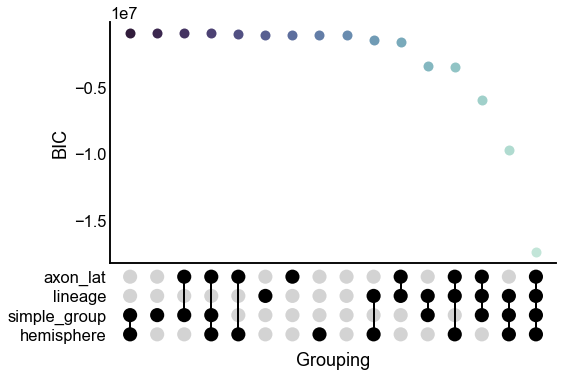
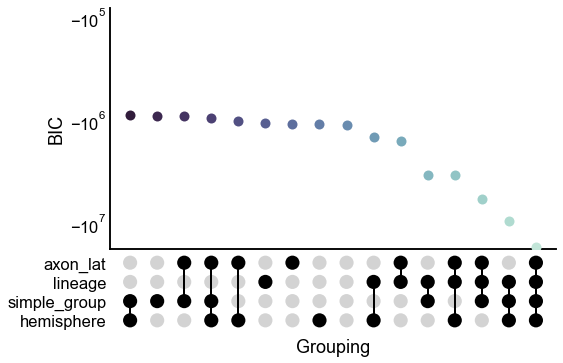
deploy: 57e672d20fbf3d39e48d55f0de262d6b388ae376

diff --git a/searchindex.js b/searchindex.js
@@ -1,1 +1,1 @@
-Search.setIndex({docnames:["a_priori_sbm","flow","flow_rank","flow_rank_hypothesis","introduction","landing","look","outline","simple_statistics","what_is_flow_rank"],envversion:{"sphinx.domains.c":2,"sphinx.domains.changeset":1,"sphinx.domains.citation":1,"sphinx.domains.cpp":3,"sphinx.domains.index":1,"sphinx.domains.javascript":2,"sphinx.domains.math":2,"sphinx.domains.python":2,"sphinx.domains.rst":2,"sphinx.domains.std":2,"sphinx.ext.intersphinx":1,sphinx:56},filenames:["a_priori_sbm.ipynb","flow.ipynb","flow_rank.ipynb","flow_rank_hypothesis.ipynb","introduction.md","landing.md","look.ipynb","outline.md","simple_statistics.ipynb","what_is_flow_rank.ipynb"],objects:{},objnames:{},objtypes:{},terms:{"01a5ef24ad6a":0,"038161366786986":1,"0381613667869867":2,"03it":2,"08333698647":2,"0x7fbffe1b3cd0":2,"0x7fbffec456a0":2,"100":[0,2,3,9],"106551":8,"10it":2,"1144380799117166":2,"114438079911836":1,"12it":2,"13s":3,"1482308":0,"14s":3,"17it":2,"17s":3,"18it":9,"19s":3,"1_1":[3,9],"200":[0,3,8,9],"20it":9,"22it":[2,9],"26s":3,"29401":2,"300":8,"3079":8,"338131":8,"34908":2,"35595505854":2,"36366":2,"40627":2,"40it":9,"42it":2,"43s":3,"4640518828635884":1,"4640518828635893":2,"500":8,"55it":9,"56it":9,"577596313386":2,"57it":9,"58it":[2,9],"62it":9,"64it":9,"6df5acaac1e9":8,"70it":9,"72it":2,"74it":2,"75it":9,"76it":2,"77it":[2,9],"78it":9,"81it":2,"837177843715216":1,"8371778437153456":2,"84it":2,"85it":9,"87it":2,"8888":[3,9],"97it":2,"98293932192":2,"class":7,"default":8,"function":[3,9],"import":[0,1,2,3,8,9],"int":[3,8,9],"new":0,"null":[2,3,9],"return":[0,1,2,3,9],"true":[0,1,2,3,9],"try":[0,7],"var":[1,2],And:7,For:[3,7,9],One:0,The:[3,5,9],Using:[3,9],__file__:0,__init__:[1,2,3,9],_group:0,_group_id:0,_n_paramet:0,_sr_rank:[1,2],_sr_score:[1,2],a1_tild:[3,9],a2_tild:[3,9],a_priori_sbm:0,a_sourc:2,a_target:2,abl:7,about:[0,3,7,9],abov:[0,3,7,9],across:[1,2],actual:7,adj:[0,1,2,3,8,9],adj_lcc:[1,2],adjac:[0,2,3,7,9],adjplot:[0,1,2,3,8,9],affect:[3,9],affin:7,aggreg:0,aim:0,align:[3,9],all:[0,1,2,7],all_group_kei:0,alon:0,alpha:[1,2,8],also:[0,3,9],anoth:7,anyth:7,anywher:7,append:[0,2,3,9],append_ax:[0,8],appli:0,arang:0,argsort:[1,2,3,9],arrai:0,ascend:0,assert:[0,1,2],associ:0,assort:7,assum:7,assumpt:0,attribut:7,awar:[3,9],axes_divid:2,axes_grid1:[0,2,8],axesdivid:2,axessubplot:2,axi:[0,1,2,8],axon:0,axon_lat:0,axs:[1,2,3,9],axvlin:2,balanc:0,bar:7,barplot_text:8,base:[3,9],basenam:0,bayesian:0,behavior:8,behind:[3,9],being:[3,9],below:0,best:7,beta1:[3,9],beta2:[3,9],beta:[1,2,3,9],between:[3,9],bilater:[0,7],bilateral_axon:0,bin:[1,2,3,8,9],binar:[0,2],biolog:0,black:[0,1,2,3,8,9],blob:0,block:[0,7],blockmodel:7,book:5,boostrap:[3,9],bootstrap:[3,9],bootstrap_sampl:[3,9],bootstrap_two_sample_test:[3,9],bootstrapped_beta:2,border:5,both:[0,3,9],bottom:[0,1,2],bpedigo:[1,2,3,9],brain:7,bunch:[3,9],calcul:[3,7,9],calculate_p_triu:2,calculate_test_statist:[3,9],call:[3,9],cambridg:7,came:[3,9],can:[3,7,9],cannot:0,care:[3,9],carei:7,cascad:7,categori:[0,7],cbar:[1,2,3,9],cell:7,center:[0,2],cep:7,chain:[0,7],chang:[3,9],chdir:3,chi:7,chosen:[3,9],class_color_dict:[1,2,8],cluster:7,col:2,col_graph:[1,2],col_ind:2,color:[0,1,2,3,7,8,9],color_palett:[3,9],column:0,colw:0,com:0,combin:0,common_norm:[1,2],compar:[0,3,7,9],comparison:7,complet:[3,7,9],complex:7,comput:[3,9],concaten:[3,9],connect:[0,7],connectom:[0,5,7],conserv:[3,9],consid:0,constant:[1,2,3,9],constraint:7,construct_spring_rank_p:[3,9],contra:[0,7],contralater:[0,7],contralateral_axon:0,copi:[1,2,8],correct:2,correl:[3,7,9],could:[0,7],count_nonzero:[3,9],covari:7,creat:0,criterion:0,cross:0,cubehelix_palett:0,cumul:[3,9],current:0,cwd:3,darkr:[2,3,9],data:[1,2,3,7,8,9],datafram:[0,2,3,9],ddcsbm:7,decid:7,deep:[3,9],def:[0,1,2,3,9],default_rng:[3,9],defin:[3,9],degre:[3,7,8,9],degree_in:2,degree_out:2,demonstr:7,dendrogram:7,densiti:[1,2,3,8,9],desat:[3,9],desc:[2,3,9],describ:[0,3,7,9],descrip:7,descript:7,dict:[0,1,2,3,8,9],differ:[0,3,7,9],dimens:0,direct:[0,2,3,7,9],directed:7,distanc:[3,9],distplot_kw:8,distribut:7,divid:[0,8],doe:[3,7,9],don:[3,7,9],done:1,dont:[2,7],down:[3,9],drawn:5,drosophila:5,dtype:[0,3,9],e6f66883e980332452041cd1a6ba986d6d8d2ae5:0,each:[3,7,9],easier:7,edg:[0,2,3,7,8,9],edgecolor:[1,2],effect:[3,9],either:0,element:[0,1,2,3,9],element_s:0,elif:[0,1,2],els:[0,1,2,8],embed:7,energi:[2,3,9],enumer:[1,2],env:[1,2,3,9],epsilon:[3,9],eric:7,essenti:0,estim:[0,3,7,9],estimate_spring_rank_model:[3,9],estimate_spring_rank_p:[1,2,3,9],etc:[0,7],evalu:7,even:7,ever:7,exactli:[3,9],examin:[3,7,9],exampl:[0,3,7,9],except:0,exist:0,exp:[1,2,3,9],expand:7,expand_margin:[3,9],experi:[3,9],explain:[0,3,9],extra:[3,9],facecolor:[0,1,2],fals:[0,1,2,3,8,9],famili:7,feedback:[3,9],feedforward:[3,7,9],few:[5,7],fig:[0,1,2,3,8,9],figsiz:[0,1,2,3,8,9],figur:[8,9],filenam:0,find:[3,9],first:7,fit:7,fix:0,flatnonzero:0,flow:7,flow_rank:2,flow_rank_hypothesi:3,foldernam:[0,2,3,9],follow:7,fontsiz:[2,8],form:0,frame:7,free:7,from:[0,1,2,7,8],from_iter:0,futur:8,gaa:[1,2],gad:[1,2],gda:[1,2],gdd:[1,2],gener:[0,5,7],generaliz:7,geomspac:8,get:[0,1,2,3,9],get_inverse_temperatur:[1,2,3,9],get_lcc:[1,2],get_legend:2,get_mid_map:8,get_rank:[1,2,3,9],getcwd:3,giskard:[3,9],github:0,given:[0,3,9],goal:[3,9],goe:7,good:[0,7],grab:0,graph:[1,2,3,7,8,9],graph_typ:[0,1,2],graph_type_nam:[1,2],graph_type_sourc:2,graph_type_target:2,graspolog:[0,1,2,7],grei:[1,2],gridmap:8,ground_state_energi:2,group:[0,3,9],group_kei:0,group_key1:0,group_key2:0,group_map:0,group_repr:0,groupbi:[0,2],h_0:[3,9],h_a:[3,9],happen:[3,9],has:0,hat:[0,1,2],have:[0,7],height:[3,9],height_pad:0,help:[3,9],hemispher:[0,7],here:[0,1,2,3,7,9],hierarch:7,hierarchi:[7,8],high:0,histplot:[1,2,3,8,9],homophil:7,homotop:7,homotyp:7,hopefulli:7,horizont:0,host:5,how:[0,7],howev:0,hspace:8,http:0,hue:[0,1,2,3,9],hue_kei:[1,2],hypothes:7,idx:[0,2],ignore_empti:0,iloc:[1,2,3,9],imag:7,improv:7,in_degre:8,in_degree_unweight:8,in_degree_weight:8,includ:[3,7,9],increas:[3,9],ind:[1,2,8],independ:[3,9],index:[0,1,2,8],indic:0,infer:7,inform:[0,7],init:7,initi:7,inplac:0,input:[0,8],instal:[1,2,3,9],interest:7,interneuron:[0,7],intersect:0,ipsi:[0,7],ipsilater:[0,7],ipsilateral_axon:0,ipynb_path:0,ipyparam:0,ipython:[0,8],is_fully_connect:2,isin:2,iter:0,iterrow:2,itertool:0,itertupl:0,its:0,ix_:[1,2],jhu_cod:3,jitter:0,jnothman:0,joint:[1,2],jovo:7,jupyt:5,just:[0,1,2,3,7,9],justifi:7,kde:8,keep:8,keep_ind:[1,2],kei:0,kind:[3,7,9],know:[3,7,9],known:[0,7],kwarg:[0,2,3,9],l428:0,label:[0,3,7,9],larg:2,larval:5,layout:[5,7],lcc:[1,2],lcc_adj:[1,2],learn:7,least:[3,9],left:[0,2,7],legend:[0,1,2,3,9],leiden:7,len:[0,1,2,3,8,9],length:0,less:7,let:7,level:[0,3,9],lib:[1,2,3,9],lightgrei:0,lik:0,like:[0,3,7,9],line2d:2,line:2,line_data:0,lineag:0,linestyl:[2,3,9],linewidth:[0,1,2,8],linspac:8,list:0,load_adj_meta:1,load_adjac:0,load_data:[2,8],load_metagraph:8,load_networkx:0,load_node_meta:0,load_palett:0,loc:[0,1,2],log:[0,8],log_scal:8,logi:0,logx:0,look:[3,7,9],loop:0,loos:7,lot:7,low:0,maggot:[0,1,2,3,5,9],maggot_connectom:9,mai:[3,9],make:[0,3,7,9],make_axes_locat:[0,8],make_rank:[3,9],map:[0,8],margin:7,markdown:0,marker:8,mass:[3,9],match:[3,7,9],math:[3,9],matplotlib:[0,1,2,3,8,9],matplotlibdeprecationwarn:8,matrix:[0,3,9],matrixplot:8,max:[0,3,8,9],mayb:7,mean:[1,2,3,9],meaningfulli:7,measur:[3,9],median:8,median_degre:8,median_in_degre:8,median_out_degre:8,meta:[0,1,2,8],metagraph:8,method:7,metric:[3,9],might:[1,2],min:[0,8],miniconda3:[1,2,3,9],model:[2,3,7,9],more:[3,7,9],motor:7,mpl_toolkit:[0,2,8],multigraph:7,multinetwork:7,multipl:[3,9],multipli:[1,2,3,9],n_a_low:2,n_a_upp:2,n_bins_linear:8,n_bins_log:8,n_bootstrap:[3,9],n_cat:0,n_color:0,n_edg:8,n_graph:[1,2],n_node:8,n_param:0,n_per_group:[3,9],n_repeat:[3,9],n_synapse_pair:8,n_vert:0,name:[0,3,9],nan:[1,2],nan_polici:[1,2],natur:0,nblast:7,nbunch:8,necessari:7,need:0,neq:[3,9],nest:7,network:[0,2,5,7],networkx:0,neurobiolog:7,neuron:[0,5,7],never:7,nice:7,nlevel:0,node:[3,7,8,9],node_meta:0,nodelist:0,non:0,none:[0,1,2,3,8,9],nonidentifi:[3,9],nonpar:7,nonzero:[2,8],normal:[3,9],note:0,notebook:5,notebook_nam:0,notion:[0,3,7,9],now:[0,7],nspearman:8,null1:[3,9],null2:[3,9],number:[7,8],numpi:[0,1,2,3,8,9],nuniqu:0,observ:[0,2,3,9],observed_test_statist:[3,9],off:[1,2],okai:7,old:[2,8],omit:[1,2],one:[3,7,9],ones:[2,3,9],onli:0,onto:0,opposit:[3,9],option:2,origin:[2,3,9],other:[0,7],other_data:2,our:[0,7],out:[0,7,8],out_degre:8,out_degree_unweight:8,out_degree_weight:8,output:0,own:0,p_a_upp:2,p_perturb:[3,9],p_upper:2,p_valu:[3,9],p_value1:[3,9],p_value2:[3,9],p_value_distribut:[3,9],p_values_under_nul:[3,9],packag:[1,2,3,9],pad:[0,8],pair:[7,8],paired:7,pairwis:[1,2],palett:[0,1,2,3,9],panda:[0,2,3,8,9],paper:[3,5,7,9],paper_clustered_neuron:0,paramet:[3,7,9],parameter:7,parametricumap:[1,2,3,9],part:7,partit:0,path:0,pathwai:7,pearson:[3,8,9],pearsonr:[3,8,9],penalti:0,per:2,per_edg:2,perfectli:0,perturb:[3,9],phat1:[3,9],phat2:[3,9],phat:[3,9],pkg:[0,1,2,3,8,9],plan:0,plot:[1,2,3,7,8,9],plot_typ:[1,2,3,9],plot_upset_ind:0,plt:[0,1,2,3,8,9],png:9,point:[3,7,9],poisson:[2,3,9],posit:0,possibl:7,posteriori:7,powerset:0,predict:7,preprocess:8,pretti:7,print:[0,1,2,8],print_out:3,prior:7,priori:7,probabl:[0,3,7,9],procedur:[3,9],process:[3,9],purpos:0,pyplot:[0,1,2,3,8,9],python3:[1,2,3,9],python:7,question:[0,3,7,9],quit:7,random:[2,3,9],rang:[0,2,3,9],rank:[0,1,2,7],rankdata:[1,2],ranks1:[3,9],ranks2:[3,9],ranks_a1_tild:[3,9],ranks_a2_tild:[3,9],ravel:8,rcparam:8,rdpg:7,readcsv:8,realiz:[3,9],ref:0,rel:0,relat:7,remov:2,remove_axi:8,remove_loop:0,remove_shared_ax:8,remove_spin:8,render:5,repeat:[0,3,9],replic:7,repres:0,represent:0,result:[2,3,7,9],return_ind:[1,2],revamp:[1,2,3,9],revisit:7,rho:[1,2],right:[0,1,2,7,8],right_ax:8,rightarrow:[1,2],rng:[3,9],root_path:3,rot:0,rotat:[0,2],rough:7,row:[0,2,3,9],row_graph:[1,2],row_ind:2,rugplot:[3,9],run:[3,9],s_1:[3,9],s_2:[3,9],sai:7,sampl:[2,3,9],sampled_a:2,sampled_swapped_a:2,save:[0,9],savecsv:8,savefig:[0,2,3,8,9],sbm:[3,7,9],sbmestim:0,scale:[0,3,9],scatter:[0,8],scattermap:[1,2,3,9],scatterplot:[0,1,2,8],scipi:[1,2,3,8,9],score:0,script:0,seaborn:[0,1,2,3,8,9],see:0,seed:[3,7,9],select:7,semipar:7,sens:[3,9],sensori:7,seri:5,set:[0,1,2,3,8,9],set_axes_equ:8,set_bbox:[1,2],set_cwd:2,set_frame_on:0,set_index:0,set_styl:8,set_them:[0,1,2,3,8,9],set_tick:0,set_ticklabel:0,set_ticks_posit:0,set_vis:[0,2,8],set_warn:0,set_xlabel:[0,8],set_xlim:8,set_xscal:[0,8],set_ylabel:8,set_ylim:[0,8],set_yscal:[0,8],sever:0,sharei:8,sharex:[0,2,8],shift:[3,9],should:7,show:7,sigma:[3,9],signal:[3,7,9],signal_flow:8,sim:[3,7,9],similar:7,simpl:[0,7],simple_class:[1,2],simple_group:0,sinc:0,singl:3,single_data:2,single_group_kei:0,single_hu:2,site:[1,2,3,9],size:[0,1,2,3,8,9],skeleton:5,sns:[0,1,2,3,8,9],some:[0,3,7,9],someth:7,sort:[0,3,9],sort_ind:[1,2,3,9],sort_valu:0,sourc:2,space:[0,7],spearman:8,spearman_corr:[1,2],spearmanr:[1,2,8],spec:7,specif:[3,7,9],spine:2,spring:[3,7,9],spring_rank:[1,2],springrank:[1,2,3,9],sqrt:[3,9],squar:[7,8],sr_score:[1,2],src:[1,2,3,8,9],stacked_barplot:8,stackoverflow:0,start:[0,8],stashfig:[0,1,2,3,9],stat:[1,2,3,8,9],statist:[3,7,9],step:[1,2,3,9],stochast:0,str:0,string:0,stripplot:[0,3,9],stripplot_kw:0,structur:7,studi:5,stuff:7,sub:[3,9],sub_result:2,subplot:[0,1,2,3,8,9],subset:0,sum:[0,1,2,8],suptitl:[1,2],sure:[3,9],swap:2,swap_col_ind:2,swap_edg:2,swap_inds_ind:2,swap_row_ind:2,swapped_a:2,swapped_a_target:2,symmetri:7,synaps:[7,8],synapt:8,system:[3,9],tabl:7,take:[0,3],talk:7,target:2,tau:0,temp_adj:[1,2],temp_data:2,temp_meta:[1,2],tensorflow:[1,2,3,9],term:0,test:[7,9],test_statist:[3,9],test_statistic_nam:[3,9],text:[1,2,8],them:[3,7,9],therefor:0,thi:[0,1,2,3,5,7,9],think:[0,7],those:[3,7,9],threshold:2,through:7,thu:0,tick_axi:0,tick_param:0,tight_layout:2,tild:[3,9],tile:0,time:[0,3,9],titl:[1,2,3,9],to_fram:0,to_numpy_arrai:0,todo:[0,1,2,3,9],tolist:0,ton:7,tool:7,top:[0,8],top_ax:8,tqdm:[2,3,9],transax:[1,2,8],transform:[1,2,8],tri:7,triu_ind:2,triu_indic:2,tstat:2,two:[3,9],type:[2,7],umap:[1,2,3,9],unavail:[1,2,3,9],under:[0,3,7,9],understand:0,uniform:[2,3,9],uniform_rv:2,union:[1,2],uniqu:[0,2],unique_group_kei:0,unweight:0,upset_ax:0,upset_ratio:0,upset_stripplot:0,upsetplot:0,use:[0,2,3,7,9],used:7,useful:7,user:[1,2,3,9],userwarn:[0,1,2,3,9],using:[0,5,7],util:[0,1,2],valu:[0,1,2,3,8,9],vanilla:7,varianc:[3,9],varieti:0,vector:0,version:8,vertex:7,visual:[1,2,3,8,9],vline:0,wai:7,want:[3,7,9],warn:[1,2,3,9],websit:5,weight:[7,8],welcom:[3,9],well:[0,7],went:7,what:7,what_is_flow_rank:9,where:[0,3,9],whether:[0,3,7,9],which:[0,3,7,9],white:[1,2],with_lin:0,within:7,work:7,worth:[3,9],would:[0,7],wrong:2,wspace:8,x_perturb:[3,9],x_val:2,x_var:[1,2],xaxi:[0,8],xlabel:[0,1,2,8],xtick:[0,1,2],xticklabel:0,y_var:[1,2],yaxi:[0,8],yet:7,yield:[3,9],ylabel:[0,1,2,3,8,9],youngser:7,ytick:[1,2],zero:0,zip:[0,2,3,9]},titles:["A priori SBMs","Flow","Flow","Flow ranking and hypothesis testing","Introduction","Welcome","Look at it","Outline","Simple summary statistics","What is flow ranking?"],titleterms:{Are:[3,9],between:0,bic:0,code:7,collect:0,complex:0,creat:[3,9],data:0,distribut:[3,9],each:0,evalu:0,experiment:0,figur:7,fit:0,flow:[1,2,3,9],from:[3,9],g_1:[3,9],g_2:[3,9],goe:[3,9],graph:0,how:[3,9],hypothesi:3,interest:0,introduct:4,latent:[3,9],likelihood:0,load:0,look:[0,6],metadata:0,model:0,node:0,number:0,order:[3,9],outlin:7,panel:7,paramet:0,plot:0,power:[3,9],priori:0,problem:0,rank:[3,9],relat:[3,9],result:0,same:[3,9],sbm:0,select:0,seri:0,simpl:8,simul:[3,9],statement:0,statist:8,summari:8,test:3,thei:[3,9],tradeoff:0,valid:[3,9],welcom:5,what:9}})
+Search.setIndex({docnames:["a_priori_sbm","flow","flow_rank","flow_rank_hypothesis","introduction","landing","look","outline","simple_statistics","what_is_flow_rank"],envversion:{"sphinx.domains.c":2,"sphinx.domains.changeset":1,"sphinx.domains.citation":1,"sphinx.domains.cpp":3,"sphinx.domains.index":1,"sphinx.domains.javascript":2,"sphinx.domains.math":2,"sphinx.domains.python":2,"sphinx.domains.rst":2,"sphinx.domains.std":2,"sphinx.ext.intersphinx":1,sphinx:56},filenames:["a_priori_sbm.ipynb","flow.ipynb","flow_rank.ipynb","flow_rank_hypothesis.ipynb","introduction.md","landing.md","look.ipynb","outline.md","simple_statistics.ipynb","what_is_flow_rank.ipynb"],objects:{},objnames:{},objtypes:{},terms:{"038161366786986":1,"0381613667869867":2,"03it":2,"08333698647":2,"0x7fbffe1b3cd0":2,"0x7fbffec456a0":2,"100":[0,2,3,9],"106551":8,"10it":2,"1144380799117166":2,"114438079911836":1,"12it":2,"13s":3,"1482308":0,"14s":3,"17it":2,"17s":3,"18it":9,"19s":3,"1_1":[3,9],"200":[0,3,8,9],"20it":9,"22it":[2,9],"26s":3,"29401":2,"300":8,"3079":8,"338131":8,"34908":2,"35595505854":2,"36366":2,"40627":2,"40it":9,"42it":2,"43s":3,"4640518828635884":1,"4640518828635893":2,"500":8,"55it":9,"56it":9,"577596313386":2,"57it":9,"58it":[2,9],"62it":9,"64it":9,"6df5acaac1e9":8,"70it":9,"72it":2,"74it":2,"75it":9,"76it":2,"77it":[2,9],"78it":9,"81it":2,"837177843715216":1,"8371778437153456":2,"84it":2,"85it":9,"87it":2,"8888":[3,9],"97it":2,"98293932192":2,"class":7,"default":8,"function":[3,9],"import":[0,1,2,3,8,9],"int":[3,8,9],"new":0,"null":[2,3,9],"return":[0,1,2,3,9],"true":[0,1,2,3,9],"try":[0,7],"var":[1,2],And:7,For:[3,7,9],One:0,The:[3,5,9],Using:[3,9],__file__:0,__init__:[1,2,3,9],_group:0,_group_id:0,_n_paramet:0,_sr_rank:[1,2],_sr_score:[1,2],a1_tild:[3,9],a2_tild:[3,9],a_priori_sbm:0,a_sourc:2,a_target:2,abl:7,about:[0,3,7,9],abov:[0,3,7,9],across:[1,2],actual:7,adj:[0,1,2,3,8,9],adj_lcc:[1,2],adjac:[0,2,3,7,9],adjplot:[0,1,2,3,8,9],affect:[3,9],affin:7,aggreg:0,aim:0,align:[3,9],all:[0,1,2,7],all_group_kei:0,alon:0,alpha:[1,2,8],also:[0,3,9],anoth:7,anyth:7,anywher:7,append:[0,2,3,9],append_ax:[0,8],appli:0,arang:0,argsort:[1,2,3,9],arrai:0,ascend:0,assert:[0,1,2],associ:0,assort:7,assum:7,assumpt:0,attribut:7,awar:[3,9],axes_divid:2,axes_grid1:[0,2,8],axesdivid:2,axessubplot:2,axi:[0,1,2,8],axon:0,axon_lat:0,axs:[1,2,3,9],axvlin:2,balanc:0,bar:7,barplot_text:8,base:[3,9],basenam:0,bayesian:0,behavior:8,behind:[3,9],being:[3,9],below:0,best:7,beta1:[3,9],beta2:[3,9],beta:[1,2,3,9],between:[3,9],bilater:[0,7],bilateral_axon:0,bin:[1,2,3,8,9],binar:[0,2],biolog:0,black:[0,1,2,3,8,9],blob:0,block:[0,7],blockmodel:7,book:5,boostrap:[3,9],bootstrap:[3,9],bootstrap_sampl:[3,9],bootstrap_two_sample_test:[3,9],bootstrapped_beta:2,border:5,both:[0,3,9],bottom:[0,1,2],bpedigo:[1,2,3,9],brain:7,bunch:[3,9],calcul:[3,7,9],calculate_p_triu:2,calculate_test_statist:[3,9],call:[3,9],cambridg:7,came:[3,9],can:[3,7,9],care:[3,9],carei:7,cascad:7,categori:[0,7],cbar:[1,2,3,9],cell:7,center:[0,2],cep:7,chain:[0,7],chang:[3,9],chdir:3,chi:7,chosen:[3,9],class_color_dict:[1,2,8],cluster:7,col:2,col_graph:[1,2],col_ind:2,color:[0,1,2,3,7,8,9],color_palett:[3,9],column:0,colw:0,com:0,combin:0,common_norm:[1,2],compar:[0,3,7,9],comparison:7,complet:[3,7,9],complex:7,comput:[3,9],concaten:[3,9],connect:[0,7],connectom:[0,5,7],conserv:[3,9],consid:0,constant:[1,2,3,9],constraint:7,construct_spring_rank_p:[3,9],contra:[0,7],contralater:[0,7],contralateral_axon:0,copi:[1,2,8],correct:2,correl:[3,7,9],could:[0,7],count_nonzero:[3,9],covari:7,creat:0,criterion:0,cross:0,cubehelix_palett:0,cumul:[3,9],current:0,cwd:3,darkr:[2,3,9],data:[1,2,3,7,8,9],datafram:[0,2,3,9],ddcsbm:7,decid:7,deep:[3,9],def:[0,1,2,3,9],default_rng:[3,9],defin:[3,9],degre:[3,7,8,9],degree_in:2,degree_out:2,demonstr:7,dendrogram:7,densiti:[1,2,3,8,9],desat:[3,9],desc:[2,3,9],describ:[0,3,7,9],descrip:7,descript:7,dict:[0,1,2,3,8,9],differ:[0,3,7,9],dimens:0,direct:[0,2,3,7,9],directed:7,distanc:[3,9],distplot_kw:8,distribut:7,divid:[0,8],doe:[3,7,9],don:[3,7,9],done:1,dont:[2,7],down:[3,9],drawn:5,drosophila:5,dtype:[0,3,9],e6f66883e980332452041cd1a6ba986d6d8d2ae5:0,each:[3,7,9],easier:7,edg:[0,2,3,7,8,9],edgecolor:[1,2],effect:[3,9],either:0,element:[0,1,2,3,9],element_s:0,elif:[0,1,2],els:[0,1,2,8],embed:7,energi:[2,3,9],enumer:[1,2],env:[1,2,3,9],epsilon:[3,9],eric:7,essenti:0,estim:[0,3,7,9],estimate_spring_rank_model:[3,9],estimate_spring_rank_p:[1,2,3,9],etc:[0,7],evalu:7,even:7,ever:7,exactli:[3,9],examin:[3,7,9],exampl:[0,3,7,9],except:0,exist:0,exp:[1,2,3,9],expand:7,expand_margin:[3,9],experi:[3,9],explain:[0,3,9],extra:[3,9],facecolor:[0,1,2],fals:[0,1,2,3,8,9],famili:7,feedback:[3,9],feedforward:[3,7,9],few:[5,7],fig:[0,1,2,3,8,9],figsiz:[0,1,2,3,8,9],figur:[8,9],filenam:0,find:[3,9],first:7,fit:7,fix:0,flatnonzero:0,flow:7,flow_rank:2,flow_rank_hypothesi:3,foldernam:[0,2,3,9],follow:7,fontsiz:[2,8],form:0,frame:7,free:7,from:[0,1,2,7,8],from_iter:0,futur:8,gaa:[1,2],gad:[1,2],gda:[1,2],gdd:[1,2],gener:[0,5,7],generaliz:7,geomspac:8,get:[0,1,2,3,9],get_inverse_temperatur:[1,2,3,9],get_lcc:[1,2],get_legend:2,get_mid_map:8,get_rank:[1,2,3,9],getcwd:3,giskard:[3,9],github:0,given:[0,3,9],goal:[3,9],goe:7,good:[0,7],grab:0,graph:[1,2,3,7,8,9],graph_typ:[0,1,2],graph_type_nam:[1,2],graph_type_sourc:2,graph_type_target:2,graspolog:[0,1,2,7],grei:[1,2],gridmap:8,ground_state_energi:2,group:[0,3,9],group_kei:0,group_key1:0,group_key2:0,group_map:0,group_repr:0,groupbi:[0,2],h_0:[3,9],h_a:[3,9],happen:[3,9],hat:[0,1,2],have:[0,7],height:[3,9],height_pad:0,help:[3,9],hemispher:[0,7],here:[0,1,2,3,7,9],hierarch:7,hierarchi:[7,8],high:0,histplot:[1,2,3,8,9],homophil:7,homotop:7,homotyp:7,hopefulli:7,horizont:0,host:5,how:[0,7],howev:0,hspace:8,http:0,hue:[0,1,2,3,9],hue_kei:[1,2],hypothes:7,idx:[0,2],ignore_empti:0,iloc:[1,2,3,9],imag:7,improv:7,in_degre:8,in_degree_unweight:8,in_degree_weight:8,includ:[3,7,9],increas:[3,9],ind:[1,2,8],independ:[3,9],index:[0,1,2,8],indic:0,infer:7,inform:[0,7],init:7,initi:7,inplac:0,input:[0,8],instal:[1,2,3,9],interest:7,interneuron:[0,7],intersect:0,ipsi:[0,7],ipsilater:[0,7],ipsilateral_axon:0,ipynb_path:0,ipython:8,is_fully_connect:2,isin:2,iter:0,iterrow:2,itertool:0,itertupl:0,its:0,ix_:[1,2],jhu_cod:3,jitter:0,jnothman:0,joint:[1,2],jovo:7,jupyt:5,just:[0,1,2,3,7,9],justifi:7,kde:8,keep:8,keep_ind:[1,2],kei:0,kind:[3,7,9],know:[3,7,9],known:[0,7],kwarg:[0,2,3,9],l428:0,label:[0,3,7,9],larg:2,larval:5,layout:[5,7],lcc:[1,2],lcc_adj:[1,2],learn:7,least:[3,9],left:[0,2,7],legend:[0,1,2,3,9],leiden:7,len:[0,1,2,3,8,9],length:0,less:7,let:7,level:[0,3,9],lib:[1,2,3,9],lightgrei:0,lik:0,like:[0,3,7,9],line2d:2,line:2,line_data:0,lineag:0,linestyl:[2,3,9],linewidth:[0,1,2,8],linspac:8,list:0,load_adj_meta:1,load_adjac:0,load_data:[2,8],load_metagraph:8,load_networkx:0,load_node_meta:0,load_palett:0,loc:[0,1,2],log:[0,8],log_scal:8,logi:0,logx:0,look:[3,7,9],loop:0,loos:7,lot:7,low:0,maggot:[0,1,2,3,5,9],maggot_connectom:9,mai:[3,9],make:[0,3,7,9],make_axes_locat:[0,8],make_rank:[3,9],map:[0,8],margin:7,markdown:0,marker:8,mass:[3,9],match:[3,7,9],math:[3,9],matplotlib:[0,1,2,3,8,9],matplotlibdeprecationwarn:8,matrix:[0,3,9],matrixplot:8,max:[0,3,8,9],mayb:7,mean:[1,2,3,9],meaningfulli:7,measur:[3,9],median:8,median_degre:8,median_in_degre:8,median_out_degre:8,meta:[0,1,2,8],metagraph:8,method:7,metric:[3,9],might:[1,2],min:[0,8],miniconda3:[1,2,3,9],model:[2,3,7,9],more:[3,7,9],motor:7,mpl_toolkit:[0,2,8],multigraph:7,multinetwork:7,multipl:[3,9],multipli:[1,2,3,9],n_a_low:2,n_a_upp:2,n_bins_linear:8,n_bins_log:8,n_bootstrap:[3,9],n_cat:0,n_color:0,n_edg:8,n_graph:[1,2],n_node:8,n_param:0,n_per_group:[3,9],n_repeat:[3,9],n_synapse_pair:8,n_vert:0,name:[0,3,9],nan:[1,2],nan_polici:[1,2],natur:0,nblast:7,nbunch:8,necessari:7,need:0,neq:[3,9],nest:7,network:[0,2,5,7],networkx:0,neurobiolog:7,neuron:[0,5,7],never:7,nice:7,nlevel:0,node:[3,7,8,9],node_meta:0,nodelist:0,non:0,none:[0,1,2,3,8,9],nonidentifi:[3,9],nonpar:7,nonzero:[2,8],normal:[3,9],note:0,notebook:5,notion:[0,3,7,9],now:[0,7],nspearman:8,null1:[3,9],null2:[3,9],number:[7,8],numpi:[0,1,2,3,8,9],nuniqu:0,observ:[0,2,3,9],observed_test_statist:[3,9],off:[1,2],okai:7,old:[2,8],omit:[1,2],one:[3,7,9],ones:[2,3,9],onli:0,onto:0,opposit:[3,9],option:2,origin:[2,3,9],other:[0,7],other_data:2,our:[0,7],out:[0,7,8],out_degre:8,out_degree_unweight:8,out_degree_weight:8,output:0,own:0,p_a_upp:2,p_perturb:[3,9],p_upper:2,p_valu:[3,9],p_value1:[3,9],p_value2:[3,9],p_value_distribut:[3,9],p_values_under_nul:[3,9],packag:[1,2,3,9],pad:[0,8],pair:[7,8],paired:7,pairwis:[1,2],palett:[0,1,2,3,9],panda:[0,2,3,8,9],paper:[3,5,7,9],paper_clustered_neuron:0,paramet:[3,7,9],parameter:7,parametricumap:[1,2,3,9],part:7,partit:0,path:0,pathwai:7,pearson:[3,8,9],pearsonr:[3,8,9],penalti:0,per:2,per_edg:2,perfectli:0,perturb:[3,9],phat1:[3,9],phat2:[3,9],phat:[3,9],pkg:[0,1,2,3,8,9],plan:0,plot:[1,2,3,7,8,9],plot_typ:[1,2,3,9],plot_upset_ind:0,plt:[0,1,2,3,8,9],png:9,point:[3,7,9],poisson:[2,3,9],possibl:7,posteriori:7,powerset:0,predict:7,preprocess:8,pretti:7,print:[0,1,2,8],print_out:3,prior:7,priori:7,probabl:[0,3,7,9],procedur:[3,9],process:[3,9],purpos:0,pyplot:[0,1,2,3,8,9],python3:[1,2,3,9],python:7,question:[0,3,7,9],quit:7,random:[2,3,9],rang:[0,2,3,9],rank:[0,1,2,7],rankdata:[1,2],ranks1:[3,9],ranks2:[3,9],ranks_a1_tild:[3,9],ranks_a2_tild:[3,9],ravel:8,rcparam:8,rdpg:7,readcsv:8,realiz:[3,9],ref:0,rel:0,relat:7,remov:2,remove_axi:8,remove_loop:0,remove_shared_ax:8,remove_spin:8,render:5,repeat:[0,3,9],replic:7,repres:0,represent:0,result:[2,3,7,9],return_ind:[1,2],revamp:[1,2,3,9],revisit:7,rho:[1,2],right:[0,1,2,7,8],right_ax:8,rightarrow:[1,2],rng:[3,9],root_path:3,rot:0,rotat:[0,2],rough:7,row:[0,2,3,9],row_graph:[1,2],row_ind:2,rugplot:[3,9],run:[3,9],s_1:[3,9],s_2:[3,9],sai:7,sampl:[2,3,9],sampled_a:2,sampled_swapped_a:2,save:[0,9],savecsv:8,savefig:[0,2,3,8,9],sbm:[3,7,9],sbmestim:0,scale:[3,9],scatter:[0,8],scattermap:[1,2,3,9],scatterplot:[0,1,2,8],scipi:[1,2,3,8,9],score:0,script:0,seaborn:[0,1,2,3,8,9],see:0,seed:[3,7,9],select:7,semipar:7,sens:[3,9],sensori:7,seri:5,set:[0,1,2,3,8,9],set_axes_equ:8,set_bbox:[1,2],set_cwd:2,set_frame_on:0,set_index:0,set_styl:8,set_them:[0,1,2,3,8,9],set_tick:0,set_ticklabel:0,set_ticks_posit:0,set_vis:[0,2,8],set_warn:0,set_xlabel:[0,8],set_xlim:8,set_xscal:[0,8],set_ylabel:8,set_ylim:[0,8],set_yscal:[0,8],sever:0,sharei:8,sharex:[0,2,8],shift:[3,9],should:7,show:7,sigma:[3,9],signal:[3,7,9],signal_flow:8,sim:[3,7,9],similar:7,simpl:[0,7],simple_class:[1,2],simple_group:0,sinc:0,singl:3,single_data:2,single_group_kei:0,single_hu:2,site:[1,2,3,9],size:[0,1,2,3,8,9],skeleton:5,sns:[0,1,2,3,8,9],some:[0,3,7,9],someth:7,sort:[0,3,9],sort_ind:[1,2,3,9],sort_valu:0,sourc:2,space:[0,7],spearman:8,spearman_corr:[1,2],spearmanr:[1,2,8],spec:7,specif:[3,7,9],spine:2,spring:[3,7,9],spring_rank:[1,2],springrank:[1,2,3,9],sqrt:[3,9],squar:[7,8],sr_score:[1,2],src:[1,2,3,8,9],stacked_barplot:8,stackoverflow:0,start:[0,8],stashfig:[0,1,2,3,9],stat:[1,2,3,8,9],statist:[3,7,9],step:[1,2,3,9],stochast:0,str:0,string:0,stripplot:[0,3,9],stripplot_kw:0,structur:7,studi:5,stuff:7,sub:[3,9],sub_result:2,subplot:[0,1,2,3,8,9],subset:0,sum:[0,1,2,8],suptitl:[1,2],sure:[3,9],swap:2,swap_col_ind:2,swap_edg:2,swap_inds_ind:2,swap_row_ind:2,swapped_a:2,swapped_a_target:2,symlog:0,symmetri:7,synaps:[7,8],synapt:8,system:[3,9],tabl:7,take:[0,3],talk:7,target:2,tau:0,temp_adj:[1,2],temp_data:2,temp_meta:[1,2],tensorflow:[1,2,3,9],term:0,test:[7,9],test_statist:[3,9],test_statistic_nam:[3,9],text:[1,2,8],them:[3,7,9],thi:[0,1,2,3,5,7,9],think:[0,7],those:[3,7,9],threshold:2,through:7,thu:0,tick_axi:0,tick_param:0,tight_layout:2,tild:[3,9],tile:0,time:[0,3,9],titl:[1,2,3,9],to_fram:0,to_numpy_arrai:0,todo:[0,1,2,3,9],tolist:0,ton:7,tool:7,top:[0,8],top_ax:8,tqdm:[2,3,9],transax:[1,2,8],transform:[1,2,8],tri:7,triu_ind:2,triu_indic:2,tstat:2,two:[3,9],type:[2,7],umap:[1,2,3,9],unavail:[1,2,3,9],under:[0,3,7,9],understand:0,uniform:[2,3,9],uniform_rv:2,union:[1,2],uniqu:[0,2],unique_group_kei:0,unweight:0,upset_ax:0,upset_ratio:0,upset_stripplot:0,upsetplot:0,use:[0,2,3,7,9],used:7,useful:7,user:[1,2,3,9],userwarn:[1,2,3,9],using:[0,5,7],util:[0,1,2],valu:[0,1,2,3,8,9],vanilla:7,varianc:[3,9],varieti:0,vector:0,version:8,vertex:7,visual:[1,2,3,8,9],vline:0,wai:7,want:[3,7,9],warn:[1,2,3,9],websit:5,weight:[7,8],welcom:[3,9],well:[0,7],went:7,what:7,what_is_flow_rank:9,where:[0,3,9],whether:[0,3,7,9],which:[0,3,7,9],white:[1,2],with_lin:0,within:7,work:7,worth:[3,9],would:[0,7],wrong:2,wspace:8,x_perturb:[3,9],x_val:2,x_var:[1,2],xaxi:[0,8],xlabel:[0,1,2,8],xtick:[0,1,2],xticklabel:0,y_var:[1,2],yaxi:[0,8],yet:7,yield:[3,9],ylabel:[0,1,2,3,8,9],youngser:7,ytick:[1,2],zero:0,zip:[0,2,3,9]},titles:["A priori SBMs","Flow","Flow","Flow ranking and hypothesis testing","Introduction","Welcome","Look at it","Outline","Simple summary statistics","What is flow ranking?"],titleterms:{Are:[3,9],between:0,bic:0,code:7,collect:0,complex:0,creat:[3,9],data:0,distribut:[3,9],each:0,evalu:0,experiment:0,figur:7,fit:0,flow:[1,2,3,9],from:[3,9],g_1:[3,9],g_2:[3,9],goe:[3,9],graph:0,how:[3,9],hypothesi:3,interest:0,introduct:4,latent:[3,9],likelihood:0,load:0,look:[0,6],metadata:0,model:0,node:0,number:0,order:[3,9],outlin:7,panel:7,paramet:0,plot:0,power:[3,9],priori:0,problem:0,rank:[3,9],relat:[3,9],result:0,same:[3,9],sbm:0,select:0,seri:0,simpl:8,simul:[3,9],statement:0,statist:8,summari:8,test:3,thei:[3,9],tradeoff:0,valid:[3,9],welcom:5,what:9}})

diff --git a/a_priori_sbm.html b/a_priori_sbm.html
@@ -314,10 +314,11 @@
 <div class="section" id="problem-statement">
 <h2>Problem statement<a class="headerlink" href="#problem-statement" title="Permalink to this headline">¶</a></h2>
 <p>We are given an adjacency matrix <span class="math notranslate nohighlight">\(A\)</span> with <span class="math notranslate nohighlight">\(n\)</span> nodes, and a set of node metadata.
-Consider the <span class="math notranslate nohighlight">\(p\)</span>th “column” of the node metadata to be an <span class="math notranslate nohighlight">\(n\)</span>-length vector:
-$<span class="math notranslate nohighlight">\(
+Consider the <span class="math notranslate nohighlight">\(p\)</span>th “column” of the node metadata to be an <span class="math notranslate nohighlight">\(n\)</span>-length vector:</p>
+<div class="math notranslate nohighlight">
+\[
 \tau^{(p)} \in \{0, 1, ... K^{(p)}\}
-\)</span>$</p>
+\]</div>
 <p>which represents a partition of the nodes into <span class="math notranslate nohighlight">\(K^{(p)}\)</span> groups.</p>
 <p>We aim to understand which of these partitions are “good” at describing the connectivity
 we see in the network - for our purposes (for now), we will understand “good” in terms
@@ -333,10 +334,11 @@ the data, the only parameters we need to estimate for the SBM are the elements o
 a <span class="math notranslate nohighlight">\(K^{(p)} \times K^{(p)}\)</span> matrix of block probabilities. If we make no other assumptions
 about <span class="math notranslate nohighlight">\(B\)</span> (e.g. low-rank, planned partition), then there are <span class="math notranslate nohighlight">\(K^{(p)}\)</span> parameters
 we have to estimate in <span class="math notranslate nohighlight">\(B\)</span>. Since we observe <span class="math notranslate nohighlight">\(n^2\)</span> edges/non-edges from <span class="math notranslate nohighlight">\(A\)</span>, then BIC
-takes the form:
-$<span class="math notranslate nohighlight">\(
+takes the form:</p>
+<div class="math notranslate nohighlight" id="equation-bic">
+<span class="eqno">(1)<a class="headerlink" href="#equation-bic" title="Permalink to this equation">¶</a></span>\[
 2 ln(\hat{L}) - 2 ln(n) (K^{(p)})^2
-\)</span>$</p>
+\]</div>
 <p>Below, we fit SBM models to the (unweighted) maggot connectome, using several
 metadata columns (as well as their intersections, explained below) as our partitions.
 We evaluate each in terms of BIC as described above.</p>
@@ -363,10 +365,6 @@ We evaluate each in terms of BIC as described above.</p>
 <span class="kn">from</span> <span class="nn">pkg.data</span> <span class="kn">import</span> <span class="n">load_adjacency</span><span class="p">,</span> <span class="n">load_networkx</span><span class="p">,</span> <span class="n">load_node_meta</span><span class="p">,</span> <span class="n">load_palette</span>
 <span class="kn">from</span> <span class="nn">pkg.plot</span> <span class="kn">import</span> <span class="n">set_theme</span>
 <span class="kn">from</span> <span class="nn">pkg.io</span> <span class="kn">import</span> <span class="n">savefig</span>
-
-<span class="kn">import</span> <span class="nn">ipyparams</span>
-
-<span class="nb">print</span><span class="p">(</span><span class="n">ipyparams</span><span class="o">.</span><span class="n">notebook_name</span><span class="p">)</span>
 
 
 <span class="k">def</span> <span class="nf">stashfig</span><span class="p">(</span><span class="n">name</span><span class="p">,</span> <span class="o">**</span><span class="n">kwargs</span><span class="p">):</span>
@@ -468,20 +466,6 @@ We evaluate each in terms of BIC as described above.</p>
 
 <span class="n">palette</span> <span class="o">=</span> <span class="n">load_palette</span><span class="p">()</span>
 <span class="n">set_theme</span><span class="p">()</span>
-</pre></div>
-</div>
-</div>
-<div class="cell_output docutils container">
-<script type="application/javascript">
-console.log('Starting front end url_querystring_target comm target');
-const comm = Jupyter.notebook.kernel.comm_manager.new_comm('url_querystring_target', {'init': 1});
-comm.send({'ipyparams_browser_url': window.location.href});
-console.log('Sent window.location.href on url_querystring_target comm target');
-
-comm.on_msg(function(msg) {
-    console.log(msg.content.data);
-});
-</script><div class="output stream highlight-myst-ansi notranslate"><div class="highlight"><pre><span></span>
 </pre></div>
 </div>
 </div>
@@ -661,7 +645,7 @@ in terms of log-likelihood, the number of parameters, and BIC.</p>
 <span class="n">fig</span><span class="p">,</span> <span class="n">ax</span> <span class="o">=</span> <span class="n">plt</span><span class="o">.</span><span class="n">subplots</span><span class="p">(</span><span class="mi">1</span><span class="p">,</span> <span class="mi">1</span><span class="p">,</span> <span class="n">figsize</span><span class="o">=</span><span class="p">(</span><span class="mi">8</span><span class="p">,</span> <span class="mi">6</span><span class="p">))</span>
 <span class="n">upset_stripplot</span><span class="p">(</span><span class="n">results</span><span class="p">,</span> <span class="n">y</span><span class="o">=</span><span class="s2">&quot;bic&quot;</span><span class="p">,</span> <span class="n">ax</span><span class="o">=</span><span class="n">ax</span><span class="p">,</span> <span class="o">**</span><span class="n">stripplot_kws</span><span class="p">)</span>
 <span class="n">ax</span><span class="o">.</span><span class="n">set</span><span class="p">(</span><span class="n">ylabel</span><span class="o">=</span><span class="s2">&quot;BIC&quot;</span><span class="p">)</span>
-<span class="n">ax</span><span class="o">.</span><span class="n">set_yscale</span><span class="p">(</span><span class="s2">&quot;log&quot;</span><span class="p">)</span>
+<span class="n">ax</span><span class="o">.</span><span class="n">set_yscale</span><span class="p">(</span><span class="s2">&quot;symlog&quot;</span><span class="p">)</span>
 <span class="n">stashfig</span><span class="p">(</span><span class="s2">&quot;all-model-bic-logy&quot;</span><span class="p">)</span>
 
 <span class="n">fig</span><span class="p">,</span> <span class="n">ax</span> <span class="o">=</span> <span class="n">plt</span><span class="o">.</span><span class="n">subplots</span><span class="p">(</span><span class="mi">1</span><span class="p">,</span> <span class="mi">1</span><span class="p">,</span> <span class="n">figsize</span><span class="o">=</span><span class="p">(</span><span class="mi">8</span><span class="p">,</span> <span class="mi">6</span><span class="p">))</span>
@@ -678,14 +662,10 @@ in terms of log-likelihood, the number of parameters, and BIC.</p>
 </div>
 </div>
 <div class="cell_output docutils container">
-<div class="output stderr highlight-myst-ansi notranslate"><div class="highlight"><pre><span></span>&lt;ipython-input-7-01a5ef24ad6a&gt;:22: UserWarning: Data has no positive values, and therefore cannot be log-scaled.
-  ax.set_yscale(&quot;log&quot;)
-</pre></div>
-</div>
+<img alt="_images/a_priori_sbm_15_0.png" src="_images/a_priori_sbm_15_0.png" />
 <img alt="_images/a_priori_sbm_15_1.png" src="_images/a_priori_sbm_15_1.png" />
 <img alt="_images/a_priori_sbm_15_2.png" src="_images/a_priori_sbm_15_2.png" />
 <img alt="_images/a_priori_sbm_15_3.png" src="_images/a_priori_sbm_15_3.png" />
-<img alt="_images/a_priori_sbm_15_4.png" src="_images/a_priori_sbm_15_4.png" />
 </div>
 </div>
 </div>
